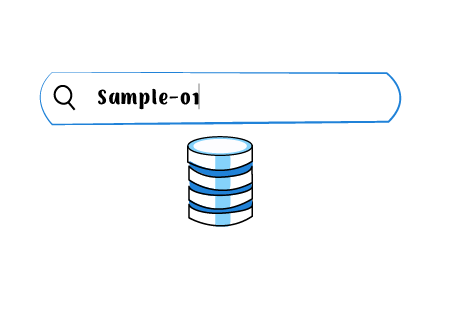
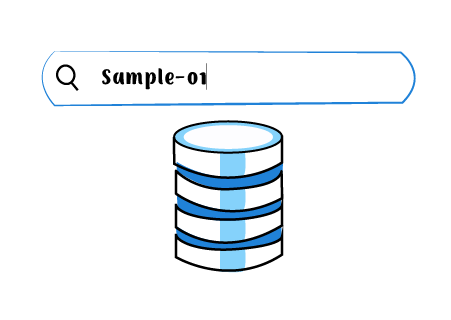
Illustrations for DB, vis

Changed region(s): [[0.0621, 0.1562, 0.9313, 0.875], [0.3415, 0.1562, 0.9002, 0.1875]]

diff --git a/index.html b/index.html
@@ -44,7 +44,7 @@
 					<p>Peaksel provides a searchable database that allows you to quickly get access to
 						previous results. Not only for you, but for anyone on your team.</p>
 				</div>
-				<img src="img/Illustration-11.png" alt="HPLC sample lookup" style="width: 270px">
+				<img src="img/Illustration-11.png" alt="search in database" style="width: 270px">
 			</div>
 			<div class="job__type">
 				<div class="job__info job__info--shrink">
@@ -62,7 +62,7 @@
 						But if you do need to export - you can do this either manually (CSV) or programmatically via REST API.
 					</p>
 				</div>
-				<img src="img/about-hero.png" alt="many HPLC instruments" style="width: 270px; float: left">
+				<img src="img/Illustration-12.png" alt="many HPLC instruments" style="width: 270px; float: left">
 			</div>
 		</section>
 	</div>
